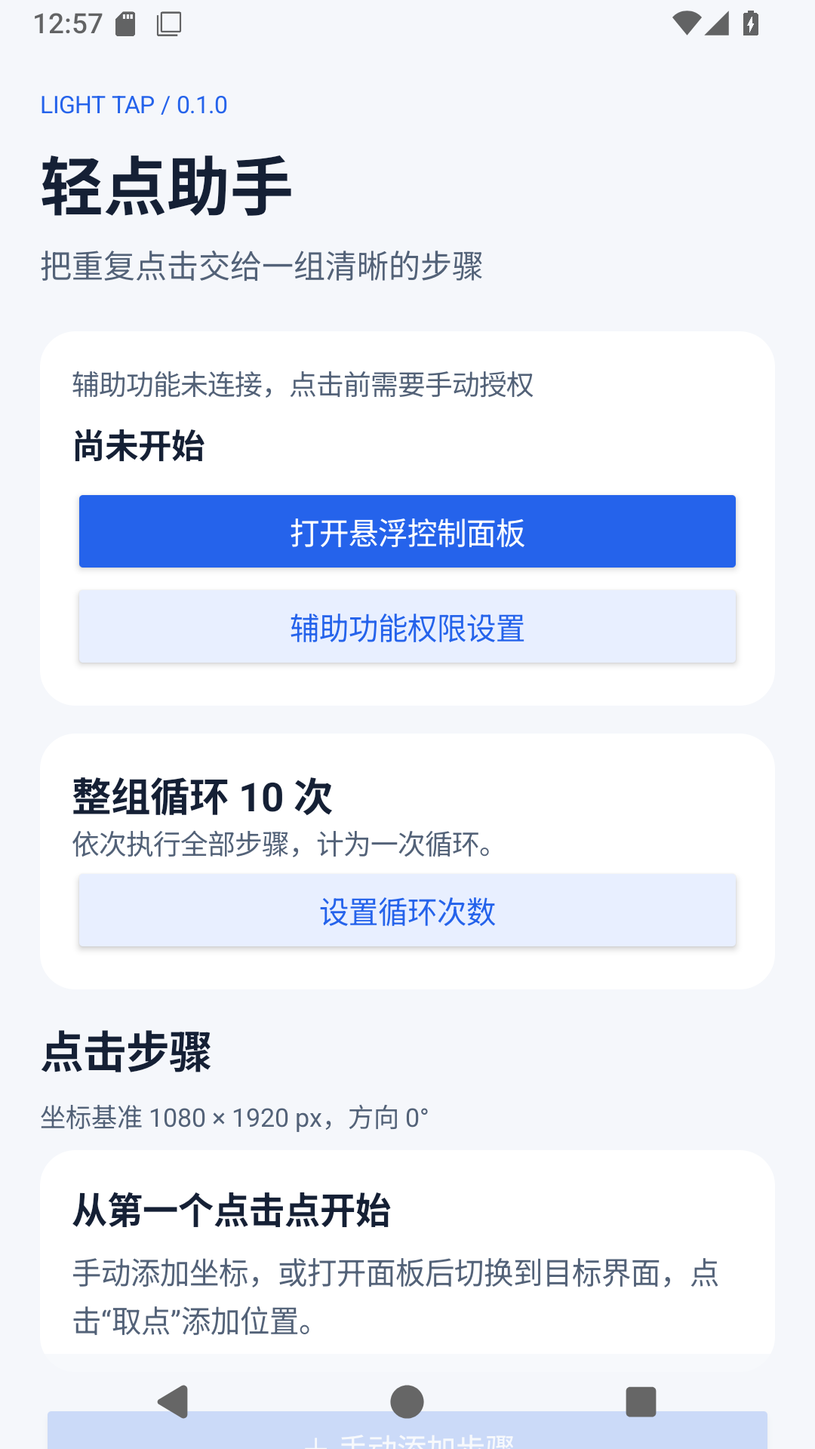
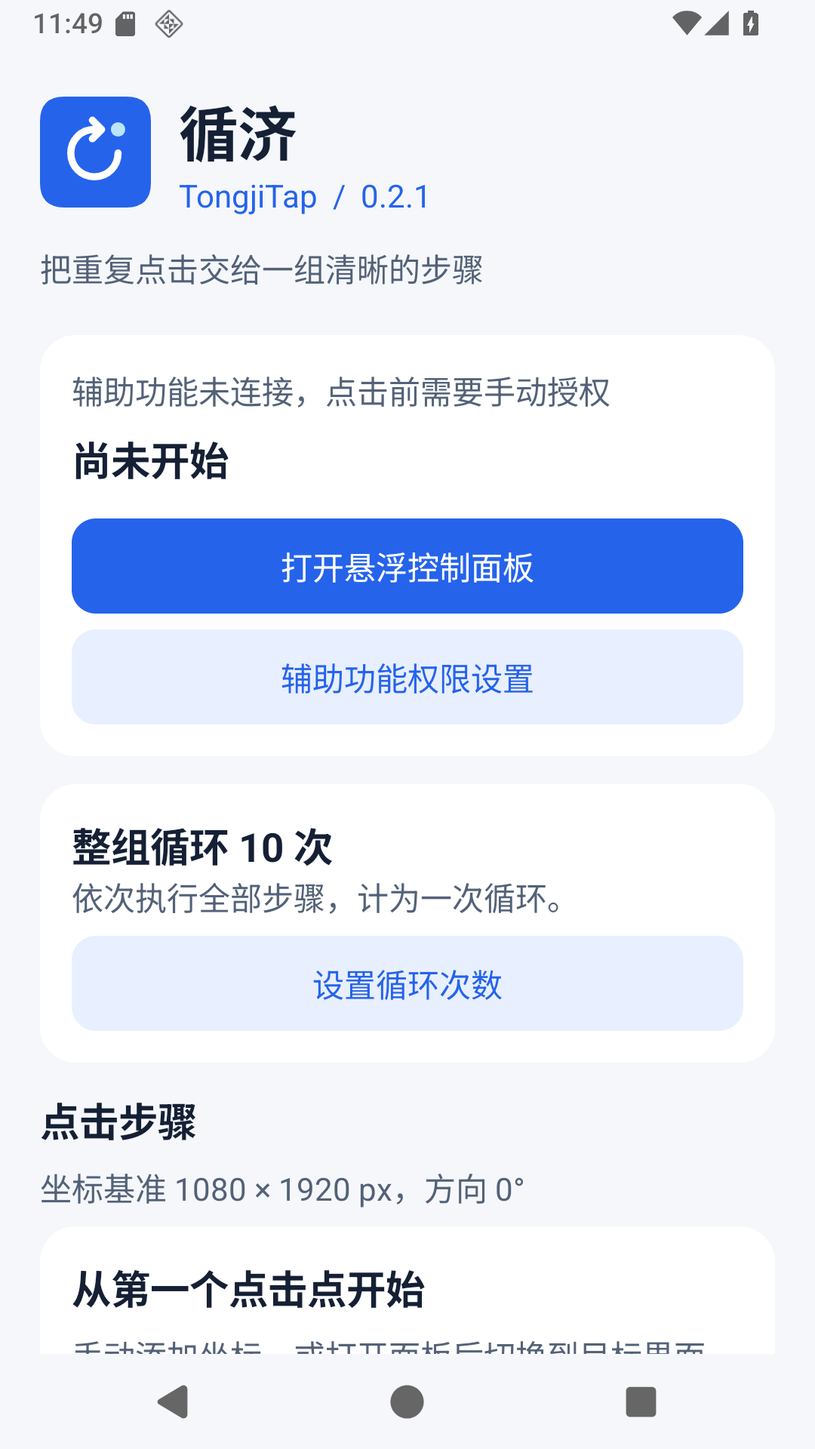
feat: add hanhua and refresh project catalog

diff --git a/index.html b/index.html
@@ -40,74 +40,79 @@
     </section>
     <section class="shell" id="projects" aria-labelledby="projects-title">
       <header class="section-head">
-        <div class="section-title"><span class="index-label">01 / INDEX</span><h2 id="projects-title" data-en="Projects">项目一览</h2><span class="count"><!-- count:start -->13<!-- count:end --></span></div>
-        <div class="sort-note"><span data-en="Sorted by GitHub stars ↓">按 GitHub Star 排序 ↓</span><small><span data-en="Checked ">核对于 </span><!-- updated:start --><time datetime="2026-11-22T11:15:50.377Z">2026-11-22</time><!-- updated:end --></small></div>
+        <div class="section-title"><span class="index-label">01 / INDEX</span><h2 id="projects-title" data-en="Projects">项目一览</h2><span class="count"><!-- count:start -->14<!-- count:end --></span></div>
+        <div class="sort-note"><span data-en="Sorted by GitHub stars ↓">按 GitHub Star 排序 ↓</span><small><span data-en="Checked ">核对于 </span><!-- updated:start --><time datetime="2026-11-23T07:06:37.120Z">2026-11-23</time><!-- updated:end --></small></div>
       </header>
       <div class="project-grid">
 <!-- projects:start -->
+<article class="project-card theme-taploop" data-repo="TongjiTap" data-stars="3">
+  <div class="project-art has-image"><img src="assets/projects/taploop.png" alt="循济 TongjiTap README 中的 Android 步骤设置界面" data-en-alt="TongjiTap Android sequence settings from its README" loading="lazy" decoding="async"><a class="image-credit" href="https://github.com/GPDdev/TongjiTap/blob/main/docs/images/home-android16.png"><span  data-en="README screenshot ↗">README 截图 ↗</span></a></div>
+  <div class="project-body"><div class="card-meta"><span class="project-number">01</span><span  data-en="Android tap assistant">Android 点击辅助</span><span class="stars" aria-label="3 GitHub stars"><span aria-hidden="true">☆</span> 3</span></div>
+<h3  data-en="TongjiTap">循济 TongjiTap</h3><p class="project-description" data-en="An offline Android assistant for multi-step tap sequences. Pick coordinates, set hold and wait times, and run a finite number of loops with visible start and stop controls.">离线运行的 Android 多步骤点击辅助工具。支持坐标取点、按住与等待时长设置、有限次数循环，以及可见的开始和停止控制。</p><ul class="tags" aria-label="Technologies"><li>Android</li><li>Java</li><li>AccessibilityService</li></ul><div class="project-links"><a href="https://github.com/GPDdev/TongjiTap">GitHub <span aria-hidden="true">↗</span></a></div></div>
+</article>
 <article class="project-card theme-metro" data-repo="Shanghai-Metro-Planner" data-stars="2">
   <div class="project-art"><div class="drawing" aria-hidden="true"><svg viewBox="0 0 600 330"><g fill="none" stroke-width="14" stroke-linecap="round" stroke-linejoin="round"><path stroke="#ca4d34" d="M-30 75H175L300 200H630"/><path stroke="#395a4a" d="M60 370V240L240 60H500"/><path stroke="#d5a448" d="M-30 285H180L345 120H630"/></g><g fill="#fbf5e8" stroke="#293e35" stroke-width="4"><circle cx="155" cy="75" r="9"/><circle cx="222" cy="122" r="12"/><circle cx="300" cy="200" r="12"/><circle cx="440" cy="200" r="9"/><circle cx="385" cy="60" r="9"/><circle cx="60" cy="285" r="12"/><circle cx="470" cy="120" r="9"/></g></svg><span class="art-title">SHANGHAI<br>METRO</span><span class="art-note">Routes, connected.</span></div></div>
-  <div class="project-body"><div class="card-meta"><span class="project-number">01</span><span  data-en="Route planning">路线规划</span><span class="stars" aria-label="2 GitHub stars"><span aria-hidden="true">☆</span> 2</span></div>
+  <div class="project-body"><div class="card-meta"><span class="project-number">02</span><span  data-en="Route planning">路线规划</span><span class="stars" aria-label="2 GitHub stars"><span aria-hidden="true">☆</span> 2</span></div>
 <h3  data-en="Shanghai Metro Planner">上海地铁换乘指南</h3><p class="project-description" data-en="A Shanghai Metro planner that prioritizes fewer transfers, then fewer stops. Includes network editing and highlighted routes.">少换乘，再少走几站。用图结构和 Dijkstra 算法规划上海地铁路线，支持线路编辑与路径高亮。</p><ul class="tags" aria-label="Technologies"><li>C++</li><li>Qt</li><li>Dijkstra</li></ul><div class="project-links"><a href="https://github.com/GPDdev/Shanghai-Metro-Planner">GitHub <span aria-hidden="true">↗</span></a></div></div>
 </article>
 <article class="project-card theme-iasr" data-repo="IASR-Integrated-air-situation-recognition-system" data-stars="1">
   <div class="project-art"><div class="drawing" aria-hidden="true"><div class="radar"><i></i><i></i><i></i><b class="blip b1"></b><b class="blip b2"></b><b class="blip b3"></b></div><span class="art-title">IASR</span><span class="art-note">Perception → events → evidence</span></div></div>
-  <div class="project-body"><div class="card-meta"><span class="project-number">02</span><span  data-en="Computer vision">计算机视觉</span><span class="stars" aria-label="1 GitHub stars"><span aria-hidden="true">☆</span> 1</span></div>
+  <div class="project-body"><div class="card-meta"><span class="project-number">03</span><span  data-en="Computer vision">计算机视觉</span><span class="stars" aria-label="1 GitHub stars"><span aria-hidden="true">☆</span> 1</span></div>
 <h3  data-en="IASR">IASR 空中态势识别</h3><p class="project-description" data-en="Video detection and tracking for traffic, visibility, and unusual events. Turns observations into traceable events and evidence.">从视频中的目标检测与跟踪，到交通、能见度与异常事件分析。将现场信息整理成可追溯的事件与证据。</p><ul class="tags" aria-label="Technologies"><li>Python</li><li>YOLO</li><li>Streamlit</li></ul><div class="project-links"><a href="https://github.com/GPDdev/IASR-Integrated-air-situation-recognition-system">GitHub <span aria-hidden="true">↗</span></a><a href="https://iasrcloud.streamlit.app/"><span  data-en="Open site">访问网站</span> <span aria-hidden="true">↗</span></a></div></div>
+</article>
+<article class="project-card theme-stridetune" data-repo="StrideTune" data-stars="1">
+  <div class="project-art has-image"><img src="assets/projects/stridetune.png" alt="随步 README 中的 Android 播放器实际界面" data-en-alt="Actual Android music player interface from the StrideTune README" loading="lazy" decoding="async"><a class="image-credit" href="https://github.com/GPDdev/StrideTune/blob/main/docs/interface.png"><span  data-en="README screenshot ↗">README 截图 ↗</span></a></div>
+  <div class="project-body"><div class="card-meta"><span class="project-number">04</span><span  data-en="Running music">跑步音乐</span><span class="stars" aria-label="1 GitHub stars"><span aria-hidden="true">☆</span> 1</span></div>
+<h3  data-en="StrideTune">StrideTune 随步</h3><p class="project-description" data-en="Let the music follow your pace. Swipe with one finger to adjust playback speed, with local audio and public NetEase playlist imports.">让音乐跟上你的步伐。单指滑动调节播放速度，支持本地音频与网易云公开歌单导入。</p><ul class="tags" aria-label="Technologies"><li>Android</li><li>Java</li><li>Media3</li></ul><div class="project-links"><a href="https://github.com/GPDdev/StrideTune">GitHub <span aria-hidden="true">↗</span></a></div></div>
 </article>
 <article class="project-card theme-bronymap" data-repo="bronymap.org" data-stars="0">
   <div class="project-art"><div class="drawing" aria-hidden="true"><div class="map-grid"><i></i><i></i><i></i><i></i><i></i><i></i></div><span class="art-title">Near.<br>Never exact.</span><span class="art-note">10 km / 25 km</span></div></div>
-  <div class="project-body"><div class="card-meta"><span class="project-number">03</span><span  data-en="Community map">社群地图</span><span class="stars" aria-label="0 GitHub stars"><span aria-hidden="true">☆</span> 0</span></div>
+  <div class="project-body"><div class="card-meta"><span class="project-number">05</span><span  data-en="Community map">社群地图</span><span class="stars" aria-label="0 GitHub stars"><span aria-hidden="true">☆</span> 0</span></div>
 <h3  data-en="Bronymap">Bronymap</h3><p class="project-description" data-en="Find fellow pony fans without sharing precise locations. The browser converts locations into 10 km or 25 km grid cells before submission.">在地图上发现同好，同时保留距离。位置在浏览器内转为 10 km 或 25 km 网格，服务器不接收原始坐标。</p><ul class="tags" aria-label="Technologies"><li>Cloudflare Workers</li><li>D1</li><li>Privacy</li></ul><div class="project-links"><a href="https://github.com/GPDdev/bronymap.org">GitHub <span aria-hidden="true">↗</span></a><a href="https://bronymap.hachile.org/"><span  data-en="Open site">访问网站</span> <span aria-hidden="true">↗</span></a></div></div>
 </article>
 <article class="project-card theme-ghc" data-repo="ghc.hachile.org" data-stars="0">
   <div class="project-art has-image"><img src="assets/projects/ghc.png" alt="国豪野史仓库中的校园建筑横幅" data-en-alt="Campus architecture banner from the GHC Chronicle repository" loading="lazy" decoding="async"><a class="image-credit" href="https://github.com/GPDdev/ghc.hachile.org/blob/main/docs/banner_3.png"><span  data-en="Project artwork ↗">项目原图 ↗</span></a></div>
-  <div class="project-body"><div class="card-meta"><span class="project-number">04</span><span  data-en="Digital archive">数字档案</span><span class="stars" aria-label="0 GitHub stars"><span aria-hidden="true">☆</span> 0</span></div>
+  <div class="project-body"><div class="card-meta"><span class="project-number">06</span><span  data-en="Digital archive">数字档案</span><span class="stars" aria-label="0 GitHub stars"><span aria-hidden="true">☆</span> 0</span></div>
 <h3  data-en="Unofficial GHC Chronicle">国豪野史</h3><p class="project-description" data-en="Campus stories and shared memories from Guohao College. An evolving unofficial chronicle with sources and confidence labels.">记录国豪书院的校园故事与共同记忆。一部持续生长的非官方网络志书，附有来源与史料置信度。</p><ul class="tags" aria-label="Technologies"><li>Web</li><li>Archive</li><li>Tongji</li></ul><div class="project-links"><a href="https://github.com/GPDdev/ghc.hachile.org">GitHub <span aria-hidden="true">↗</span></a><a href="https://ghc.hachile.org/"><span  data-en="Open site">访问网站</span> <span aria-hidden="true">↗</span></a></div></div>
+</article>
+<article class="project-card theme-hanhua" data-repo="hanhua" data-stars="0">
+  <div class="project-art has-image"><img src="assets/projects/hanhua.jpg" alt="hanhua 演示：《The Question》的中文剧情与选项实机截图" data-en-alt="hanhua demo: Chinese dialogue and choices in The Question" loading="lazy" decoding="async"><a class="image-credit" href="https://github.com/GPDdev/hanhua/blob/main/docs/demo/the-question-zh.jpg"><span  data-en="README screenshot ↗">README 截图 ↗</span></a></div>
+  <div class="project-body"><div class="card-meta"><span class="project-number">07</span><span  data-en="Windows localization">Windows 汉化工具</span><span class="stars" aria-label="0 GitHub stars"><span aria-hidden="true">☆</span> 0</span></div>
+<h3  data-en="hanhua">hanhua 游戏与影视汉化</h3><p class="project-description" data-en="A Codex skill for Windows that creates reversible game patches and live Chinese subtitles, plus Mandarin-dubbed films and series with bilingual subtitles and the original audio.">Windows 上的 Codex 汉化技能。生成可还原的游戏补丁与实时中文字幕，为电影、剧集制作保留原声的普通话配音和双语字幕版本。</p><ul class="tags" aria-label="Technologies"><li>Python</li><li>Codex</li><li>FFmpeg</li></ul><div class="project-links"><a href="https://github.com/GPDdev/hanhua">GitHub <span aria-hidden="true">↗</span></a><a href="https://hachile.org/hanhua/"><span  data-en="Open site">访问网站</span> <span aria-hidden="true">↗</span></a></div></div>
 </article>
 <article class="project-card theme-jinke" data-repo="jinke" data-stars="0">
   <div class="project-art"><div class="drawing" aria-hidden="true"><div class="journal-sheet"><span>今刻</span><p>把这一刻，<br>留给自己。</p><i></i><i></i><i></i></div><span class="art-note">A little space for now.</span></div></div>
-  <div class="project-body"><div class="card-meta"><span class="project-number">05</span><span  data-en="Personal journal">随手记录</span><span class="stars" aria-label="0 GitHub stars"><span aria-hidden="true">☆</span> 0</span></div>
+  <div class="project-body"><div class="card-meta"><span class="project-number">08</span><span  data-en="Personal journal">随手记录</span><span class="stars" aria-label="0 GitHub stars"><span aria-hidden="true">☆</span> 0</span></div>
 <h3  data-en="Jinke">今刻</h3><p class="project-description" data-en="An Android journal that opens ready to write. Saves drafts locally in SQLite and exports entries as TXT, Markdown, or JSON.">打开就能写的 Android 心情记录本。自动保存草稿，文字留在本机 SQLite，支持导出 TXT、Markdown 与 JSON。</p><ul class="tags" aria-label="Technologies"><li>Android</li><li>Java</li><li>SQLite</li></ul><div class="project-links"><a href="https://github.com/GPDdev/jinke">GitHub <span aria-hidden="true">↗</span></a></div></div>
 </article>
 <article class="project-card theme-livecue" data-repo="LiveCue" data-stars="0">
   <div class="project-art has-image"><img src="assets/projects/livecue.png" alt="LiveCue README 工作台截图，使用本地示例数据" data-en-alt="LiveCue README workspace screenshot with local sample data" loading="lazy" decoding="async"><a class="image-credit" href="https://github.com/GPDdev/LiveCue/blob/main/docs/images/workspace.png"><span  data-en="README screenshot ↗">README 截图 ↗</span></a></div>
-  <div class="project-body"><div class="card-meta"><span class="project-number">06</span><span  data-en="Interview assistant">表达辅助</span><span class="stars" aria-label="0 GitHub stars"><span aria-hidden="true">☆</span> 0</span></div>
+  <div class="project-body"><div class="card-meta"><span class="project-number">09</span><span  data-en="Interview assistant">表达辅助</span><span class="stars" aria-label="0 GitHub stars"><span aria-hidden="true">☆</span> 0</span></div>
 <h3  data-en="LiveCue">LiveCue 临场</h3><p class="project-description" data-en="Turns meeting audio into transcripts and answer points grounded in your resume and role. Optional screen context; bring your own AI API.">结合简历与岗位资料，把会议语音转为文字和回答要点。支持可选画面观察，使用你自己配置的 AI API。</p><ul class="tags" aria-label="Technologies"><li>Windows</li><li>Electron</li><li>Speech to text</li></ul><div class="project-links"><a href="https://github.com/GPDdev/LiveCue">GitHub <span aria-hidden="true">↗</span></a></div></div>
 </article>
 <article class="project-card theme-mentor" data-repo="mentor-match" data-stars="0">
   <div class="project-art"><div class="drawing" aria-hidden="true"><div class="match-path"><span>YOU</span><i></i><span>RESEARCH</span><i></i><span>MENTOR</span></div><span class="art-title">Find your<br>next chapter.</span><span class="art-note">Evidence before inference.</span></div></div>
-  <div class="project-body"><div class="card-meta"><span class="project-number">07</span><span  data-en="Research matching">研究机会匹配</span><span class="stars" aria-label="0 GitHub stars"><span aria-hidden="true">☆</span> 0</span></div>
+  <div class="project-body"><div class="card-meta"><span class="project-number">10</span><span  data-en="Research matching">研究机会匹配</span><span class="stars" aria-label="0 GitHub stars"><span aria-hidden="true">☆</span> 0</span></div>
 <h3  data-en="Mentor Match">Mentor Match</h3><p class="project-description" data-en="Find and compare supervisors, labs, and research opportunities using verifiable evidence. Prepare application materials and monitor saved shortlists.">基于可核验证据寻找导师、实验室与研究机会。支持比较候选、生成申请准备材料，以及跟进已保存的名单。</p><ul class="tags" aria-label="Technologies"><li>Agent Skill</li><li>Python</li><li>Research</li></ul><div class="project-links"><a href="https://github.com/GPDdev/mentor-match">GitHub <span aria-hidden="true">↗</span></a></div></div>
 </article>
 <article class="project-card theme-atlas" data-repo="qq-chat-atlas" data-stars="0">
   <div class="project-art has-image"><img src="assets/projects/atlas.png" alt="QQ 画像簿 README 中的聊天关系概览界面" data-en-alt="Conversation overview from the QQ Conversation Atlas README" loading="lazy" decoding="async"><a class="image-credit" href="https://github.com/GPDdev/qq-chat-atlas/blob/main/docs/dashboard.png"><span  data-en="README screenshot ↗">README 截图 ↗</span></a></div>
-  <div class="project-body"><div class="card-meta"><span class="project-number">08</span><span  data-en="Local-first analytics">本地数据分析</span><span class="stars" aria-label="0 GitHub stars"><span aria-hidden="true">☆</span> 0</span></div>
+  <div class="project-body"><div class="card-meta"><span class="project-number">11</span><span  data-en="Local-first analytics">本地数据分析</span><span class="stars" aria-label="0 GitHub stars"><span aria-hidden="true">☆</span> 0</span></div>
 <h3  data-en="QQ Conversation Atlas">QQ 画像簿</h3><p class="project-description" data-en="Turn chat exports into searchable contact profiles with interaction statistics, combined filters, and optional AI analysis. Data is stored in local SQLite.">把聊天记录整理为可搜索的联系人画像。聚合互动统计、组合筛选与可选 AI 分析，数据存入本地 SQLite。</p><ul class="tags" aria-label="Technologies"><li>Python</li><li>SQLite</li><li>PyWebView</li></ul><div class="project-links"><a href="https://github.com/GPDdev/qq-chat-atlas">GitHub <span aria-hidden="true">↗</span></a></div></div>
 </article>
 <article class="project-card theme-advisor" data-repo="qq-group-advisor" data-stars="0">
   <div class="project-art"><div class="drawing" aria-hidden="true"><div class="community"><i></i><i></i><i></i><i></i><i></i><strong>QQ</strong></div><span class="art-title">People.<br>Purpose.<br>Community.</span></div></div>
-  <div class="project-body"><div class="card-meta"><span class="project-number">09</span><span  data-en="Community operations">社群运营</span><span class="stars" aria-label="0 GitHub stars"><span aria-hidden="true">☆</span> 0</span></div>
+  <div class="project-body"><div class="card-meta"><span class="project-number">12</span><span  data-en="Community operations">社群运营</span><span class="stars" aria-label="0 GitHub stars"><span aria-hidden="true">☆</span> 0</span></div>
 <h3  data-en="QQ Group Advisor">QQ Group Advisor</h3><p class="project-description" data-en="Plan, govern, and operate QQ communities using authorized data. Develop positioning, promotion, and launch plans grounded in community goals.">为 QQ 社群规划、治理和运营提供帮助。基于授权数据分析目标与现状，产出定位、宣传及冷启动方案。</p><ul class="tags" aria-label="Technologies"><li>Codex Skill</li><li>Python</li><li>QQ</li></ul><div class="project-links"><a href="https://github.com/GPDdev/qq-group-advisor">GitHub <span aria-hidden="true">↗</span></a></div></div>
 </article>
 <article class="project-card theme-screenanswer" data-repo="screenanswer" data-stars="0">
   <div class="project-art has-image"><img src="assets/projects/screenanswer.png" alt="框答 README 示例截图，展示演示题目和答案" data-en-alt="ScreenAnswer README screenshot showing a sample question and answer" loading="lazy" decoding="async"><a class="image-credit" href="https://github.com/GPDdev/screenanswer/blob/main/docs/images/main.png"><span  data-en="README screenshot ↗">README 截图 ↗</span></a></div>
-  <div class="project-body"><div class="card-meta"><span class="project-number">10</span><span  data-en="Screen study assistant">屏幕答题助手</span><span class="stars" aria-label="0 GitHub stars"><span aria-hidden="true">☆</span> 0</span></div>
+  <div class="project-body"><div class="card-meta"><span class="project-number">13</span><span  data-en="Screen study assistant">屏幕答题助手</span><span class="stars" aria-label="0 GitHub stars"><span aria-hidden="true">☆</span> 0</span></div>
 <h3  data-en="ScreenAnswer">ScreenAnswer 框答</h3><p class="project-description" data-en="Select a question on screen and keep a reference answer nearby. Supports vision models or local OCR, a floating answer window, and your own API.">框选一道题，把解题参考留在手边。支持视觉模型或本地 OCR，在可置顶的小窗中展示答案，API 由你自行配置。</p><ul class="tags" aria-label="Technologies"><li>Windows</li><li>Python</li><li>OCR</li></ul><div class="project-links"><a href="https://github.com/GPDdev/screenanswer">GitHub <span aria-hidden="true">↗</span></a></div></div>
-</article>
-<article class="project-card theme-stridetune" data-repo="StrideTune" data-stars="0">
-  <div class="project-art has-image"><img src="assets/projects/stridetune.png" alt="随步 README 中的 Android 播放器实际界面" data-en-alt="Actual Android music player interface from the StrideTune README" loading="lazy" decoding="async"><a class="image-credit" href="https://github.com/GPDdev/StrideTune/blob/main/docs/interface.png"><span  data-en="README screenshot ↗">README 截图 ↗</span></a></div>
-  <div class="project-body"><div class="card-meta"><span class="project-number">11</span><span  data-en="Running music">跑步音乐</span><span class="stars" aria-label="0 GitHub stars"><span aria-hidden="true">☆</span> 0</span></div>
-<h3  data-en="StrideTune">StrideTune 随步</h3><p class="project-description" data-en="Let the music follow your pace. Swipe with one finger to adjust playback speed, with local audio and public NetEase playlist imports.">让音乐跟上你的步伐。单指滑动调节播放速度，支持本地音频与网易云公开歌单导入。</p><ul class="tags" aria-label="Technologies"><li>Android</li><li>Java</li><li>Media3</li></ul><div class="project-links"><a href="https://github.com/GPDdev/StrideTune">GitHub <span aria-hidden="true">↗</span></a></div></div>
-</article>
-<article class="project-card theme-taploop" data-repo="Tongji-TapLoop" data-stars="0">
-  <div class="project-art has-image"><img src="assets/projects/taploop.png" alt="Tongji TapLoop README 中的 Android 主界面，0.1.0 安装包显示初始名称轻点助手" data-en-alt="Android interface from the Tongji TapLoop README; version 0.1.0 shows its initial name, Light Tap Assistant" loading="lazy" decoding="async"><a class="image-credit" href="https://github.com/GPDdev/Tongji-TapLoop/blob/main/docs/images/home-android16.png"><span  data-en="README screenshot ↗">README 截图 ↗</span></a></div>
-  <div class="project-body"><div class="card-meta"><span class="project-number">12</span><span  data-en="Android tap assistant">Android 点击辅助</span><span class="stars" aria-label="0 GitHub stars"><span aria-hidden="true">☆</span> 0</span></div>
-<h3  data-en="Tongji TapLoop">Tongji TapLoop 轻循</h3><p class="project-description" data-en="An offline Android assistant for multi-step tap sequences. Pick coordinates, set hold and wait times, and run a finite number of loops with visible start and stop controls.">离线运行的 Android 多步骤点击辅助工具。支持坐标取点、按住与等待时长设置、有限次数循环，以及可见的开始和停止控制。</p><ul class="tags" aria-label="Technologies"><li>Android</li><li>Java</li><li>AccessibilityService</li></ul><div class="project-links"><a href="https://github.com/GPDdev/Tongji-TapLoop">GitHub <span aria-hidden="true">↗</span></a></div></div>
 </article>
 <article class="project-card theme-faculty" data-repo="University-faculty-information-system-demo-" data-stars="0">
   <div class="project-art"><div class="drawing" aria-hidden="true"><div class="data-sheet"><div><b>FACULTY</b><span>↗</span></div><p>Affiliation</p><i></i><p>Research</p><i></i><p>Publications</p><i></i></div><span class="art-title">Academic<br>connections.</span></div></div>
-  <div class="project-body"><div class="card-meta"><span class="project-number">13</span><span  data-en="Academic data">学术数据</span><span class="stars" aria-label="0 GitHub stars"><span aria-hidden="true">☆</span> 0</span></div>
+  <div class="project-body"><div class="card-meta"><span class="project-number">14</span><span  data-en="Academic data">学术数据</span><span class="stars" aria-label="0 GitHub stars"><span aria-hidden="true">☆</span> 0</span></div>
 <h3  data-en="University Faculty Information System">全球高校教师信息系统</h3><p class="project-description" data-en="A Python and SQL system for querying faculty affiliations, age, and research output. Developed with funding and data support from the APJIE journal.">使用 Python 爬虫与 SQL 数据库整理高校教师信息，支持工作单位、年龄与科研成果查询。由 APJIE 期刊提供资金和数据支持。</p><ul class="tags" aria-label="Technologies"><li>Python</li><li>SQL</li><li>Data</li></ul><div class="project-links"><a href="https://github.com/GPDdev/University-faculty-information-system-demo-">GitHub <span aria-hidden="true">↗</span></a></div></div>
 </article>
 <!-- projects:end -->

diff --git a/assets/style.css b/assets/style.css
@@ -85,6 +85,7 @@ h3 { margin:10px 0; font-size:clamp(1.25rem,2vw,1.65rem); font-weight:650; line-
 .map-grid i:nth-child(3) { top:197px; left:246px; background:#d5b18a; }.map-grid i:nth-child(4) { top:295px; left:148px; }
 .map-grid i:nth-child(5) { top:99px; left:344px; }.map-grid i:nth-child(6) { top:344px; left:295px; background:#8b8aaf; }
 .theme-ghc { --art-bg:#5a4e56; }.theme-ghc img { width:100%; height:100%; object-fit:cover; }
+.theme-hanhua { --art-bg:#e2d9ec; }.theme-hanhua img { width:90%; height:calc(100% - 56px); left:5%; top:20px; border-radius:6px; filter:drop-shadow(0 12px 16px #55456630); }
 .theme-jinke { --art-bg:#e6dbc6; }.theme-jinke .drawing { color:#665743; }
 .journal-sheet { width:230px; height:340px; padding:28px; position:absolute; left:calc(50% - 100px); top:30px; transform:rotate(-7deg); background:#f9f4e9; border:1px solid #cbbfa7; box-shadow:9px 12px 0 #ccbd9f55; }
 .journal-sheet span { font-size:.8rem; }.journal-sheet p { font:1.8rem/1.65 Georgia,"Songti SC","SimSun",serif; }

diff --git a/README.md b/README.md
@@ -1,6 +1,6 @@
 # GPDdev Projects
 
-<div align="center"><img alt="Tests: Node.js" src="https://img.shields.io/badge/tests-node%20--test-315942"><img alt="License: MIT" src="https://img.shields.io/badge/license-MIT-315942"><img alt="Version: 1.10.15" src="https://img.shields.io/badge/version-1.10.15-bb593d"><img alt="Language: HTML, CSS, JavaScript" src="https://img.shields.io/badge/language-HTML%20%2F%20CSS%20%2F%20JavaScript-586a73"></div>
+<div align="center"><img alt="Tests: Node.js" src="https://img.shields.io/badge/tests-node%20--test-315942"><img alt="License: MIT" src="https://img.shields.io/badge/license-MIT-315942"><img alt="Version: 1.10.22" src="https://img.shields.io/badge/version-1.10.22-bb593d"><img alt="Language: HTML, CSS, JavaScript" src="https://img.shields.io/badge/language-HTML%20%2F%20CSS%20%2F%20JavaScript-586a73"></div>
 
 [访问网站](https://dev.hachile.org/)
 
@@ -17,7 +17,7 @@
 
 GPDdev 的开发项目展示页，收录软件、工具与实验。支持中文 / English 切换并保存语言偏好。每个项目使用独立的图形封面或仓库截图，提供 GitHub 链接及已有的在线入口。
 
-项目按 GitHub Star 数降序展示，数量相同则按仓库名排序，没有固定置顶。Tongji TapLoop 轻循已补充 Android 多步骤点击辅助功能介绍与实际界面截图。项目功能、下载方式及许可证以各自仓库为准。
+现收录 14 个项目，按 GitHub Star 数降序展示，数量相同则按仓库名排序，没有固定置顶。循济 TongjiTap（原 Tongji-TapLoop）提供 Android 多步骤点击辅助功能介绍与实际界面截图；hanhua 提供游戏与影视汉化介绍、中文实机截图及在线演示入口。项目功能、下载方式及许可证以各自仓库为准。
 
 网站使用原生 HTML、CSS、JavaScript，构建只依赖 Node.js 标准库；无需 npm install，没有浏览器端 GitHub API 请求和第三方字体。
 

diff --git a/assets/README.md b/assets/README.md
@@ -9,6 +9,9 @@
 | projects/atlas.png | [源文件](https://github.com/GPDdev/qq-chat-atlas/blob/main/docs/dashboard.png) |
 | projects/screenanswer.png | [源文件](https://github.com/GPDdev/screenanswer/blob/main/docs/images/main.png) |
 | projects/stridetune.png | [源文件](https://github.com/GPDdev/StrideTune/blob/main/docs/interface.png) |
-| projects/taploop.png | [源文件](https://github.com/GPDdev/Tongji-TapLoop/blob/main/docs/images/home-android16.png) |
+| projects/taploop.png | [源文件](https://github.com/GPDdev/TongjiTap/blob/main/docs/images/home-android16.png) |
+| projects/hanhua.jpg | [源文件](https://github.com/GPDdev/hanhua/blob/main/docs/demo/the-question-zh.jpg) |
+
+hanhua 截图来自 Ren’Py 示例《The Question》。剧本 mikey (ATP Projects)，改写 Lore；角色美术 Deji，原角色美术 derik；背景美术 Mugenjohncel，原背景美术 DaFool；音乐 Alessio。演示复用了 SDK 自带简中并补译两句对白，详见 [演示署名与授权说明](https://github.com/GPDdev/hanhua/blob/main/docs/demo/CREDITS.md)。随附上游 [MIT 授权与免责条款](projects/hanhua-LICENSE.txt)，图像未经修改。
 
 其余封面由站点 CSS / SVG 绘制，表现项目主题，不代表实际软件界面。图像按需加载，页面不依赖外部图片服务器。
